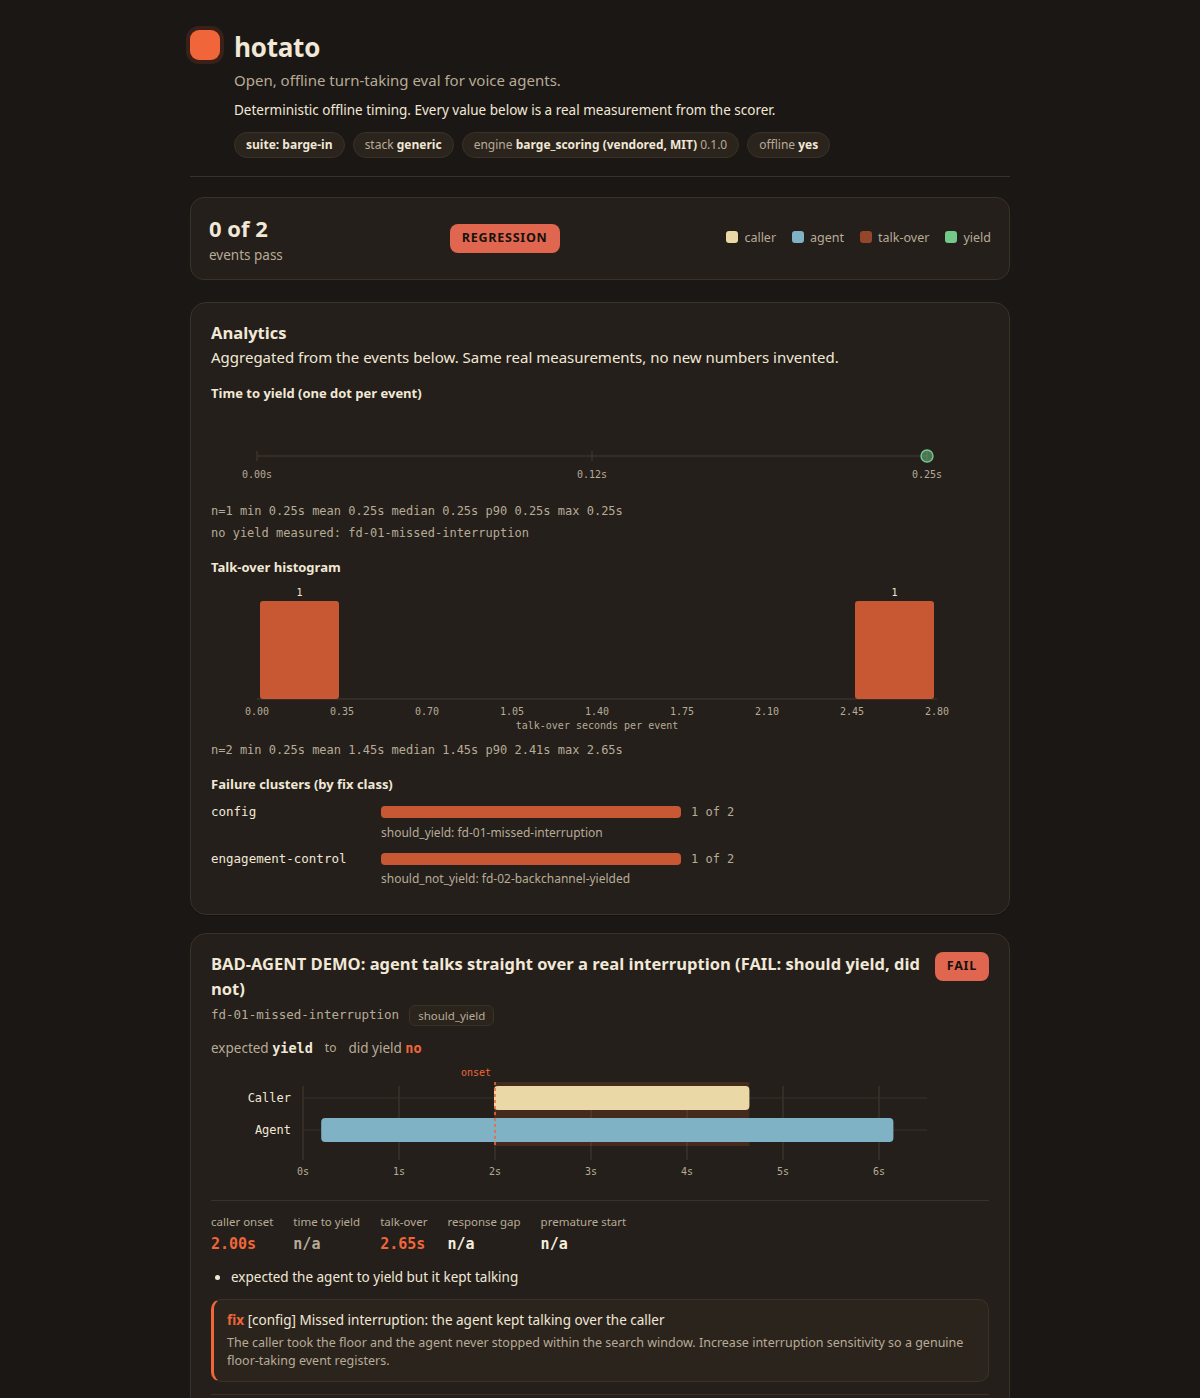
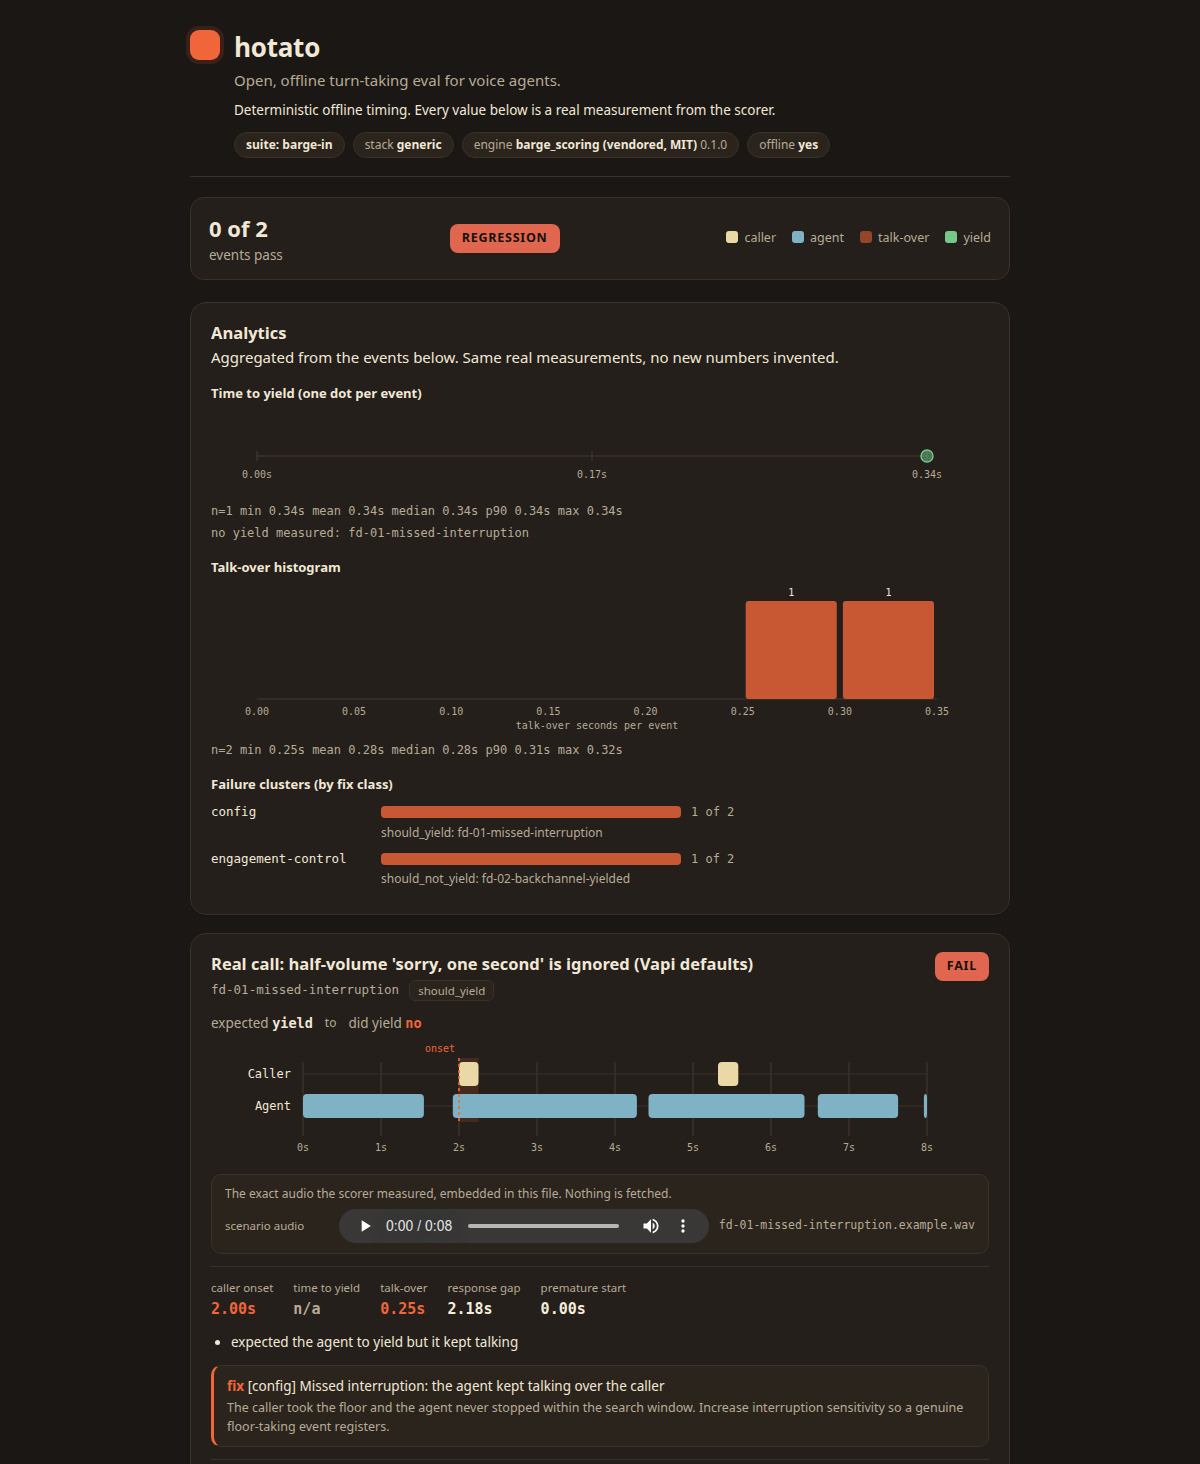
Run the demo battery and hosted report on real recorded calls
The packaged `hotato demo` battery and the site-hosted report artifact both
scored two synthetic shaped-noise renders (fd-01/fd-02). Replace their audio
with two real, operator-recorded, MIT-licensed probe calls against a voice
agent on a provider's default interruption settings:

  fd-01-missed-interruption  <- vapi-default-10-quiet-interrupt  (missed a real
                                interruption: did_yield false, 0.25s talk-over)
  fd-02-backchannel-yielded  <- vapi-default-04-backchannel-halt (false-stopped
                                on a backchannel: yielded 0.34s in)

Both still fail on both funnel axes, fire the funnel pointer, and map to the
same two fix classes, so nothing about the demo's shape changes; the audio is
just real now. `hotato demo` and the hosted report embed the exact scored WAV
under each timeline (embed_audio=True). Determinism holds: two runs of both
are byte-identical.

Scenario metadata carries the real provenance and MIT attestation. Demo header
and copy reworded off "intentionally bad agent" to honest real-call framing
(no vendor-bash: "a provider's default settings"). Regenerated the hosted
docs/assets/hotato-demo-report.{html,png} from the real battery.

test_compare_cli re-curated to the real measurements: on a quiet miss the
caller barely overlaps, so the well-behaved take legitimately shows more
talk-over; the fix is proven by the yield appearing (FAIL -> PASS), and the
[…]

diff --git a/src/hotato/cli.py b/src/hotato/cli.py
@@ -984,17 +984,21 @@ def _cmd_ingest(args) -> int:
     )
 
 
-_DEMO_HEADER = "hotato demo: intentionally bad agent battery"
-_DEMO_NOTE = "demo is intentionally failing; use this to see what Hotato catches."
+_DEMO_HEADER = "hotato demo: real recorded calls a provider's default agent fails"
+_DEMO_NOTE = ("these are two real recorded calls on a provider's default "
+              "settings; run it to see what Hotato catches.")
 
 
 def _cmd_demo(args) -> int:
-    # The packaged INTENTIONALLY FAILING battery: two deliberate bad-agent
-    # renders (fd-01 misses a real interruption, fd-02 yields to a bare
-    # backchannel). It fails on both axes by design, so a first-time user sees
-    # exactly what Hotato catches: the [FAIL] verdicts, both fix classes
-    # (config and engagement-control), and the report timelines. Same scorer,
-    # same envelope, same report as `run` and `doctor`; nothing new is claimed.
+    # The packaged demo battery: two REAL recorded probe calls against a voice
+    # agent on a provider's DEFAULT interruption settings (fd-01 misses a real
+    # interruption, fd-02 false-stops on a backchannel). Both fail, on both
+    # axes, so a first-time user hears exactly what Hotato catches: the [FAIL]
+    # verdicts, both fix classes (config and engagement-control), the report
+    # timelines, and the exact scored audio embedded under each one. Same
+    # scorer, same envelope, same report as `run` and `doctor`; nothing new is
+    # claimed. The clips are operator-recorded and MIT-licensed (see each
+    # scenario's provenance block).
     from importlib import resources
 
     from . import report as _report
@@ -1011,6 +1015,7 @@ def _cmd_demo(args) -> int:
         stack="generic",
         scenarios_dir=scenarios_dir,
         audio_dir=audio_dir,
+        embed_audio=True,
     )
 
     if args.format == "json":
@@ -1595,19 +1600,22 @@ def build_parser() -> argparse.ArgumentParser:
     d.add_argument("--no-fail", action="store_true", help="always exit 0 (do not fail on a regression)")
     d.set_defaults(func=_cmd_doctor)
 
-    # --- demo: the packaged intentionally failing battery -------------------
+    # --- demo: the packaged real-call failing battery -----------------------
     dm = sub.add_parser(
         "demo",
-        help="run the packaged intentionally failing battery and open its report",
+        help="run the packaged battery of two real failing calls and open its report",
         description=(
-            "Run the packaged INTENTIONALLY FAILING two-scenario battery: one "
-            "agent that talks straight over a real interruption, one that yields "
-            "to a bare backchannel. Both fail by design, so you see what Hotato "
-            "catches in under a minute: the [FAIL] verdicts, the fix classes "
-            "(config and engagement-control), and the per-event report timelines. "
-            "Renders the self-contained HTML report and opens it best-effort. "
-            "Exits 0 by default because the failures are intentional; pass --fail "
-            "to get the real regression exit code. Offline, zero extra files."
+            "Run the packaged two-scenario battery of REAL recorded calls "
+            "against a voice agent on a provider's DEFAULT interruption "
+            "settings: one where the agent talks straight over a real "
+            "interruption, one where it false-stops on a backchannel. Both "
+            "fail, so you hear what Hotato catches in under a minute: the "
+            "[FAIL] verdicts, the fix classes (config and engagement-control), "
+            "the per-event report timelines, and the exact scored audio "
+            "embedded under each one. Renders the self-contained HTML report "
+            "and opens it best-effort. Exits 0 by default so a demo never "
+            "breaks a script; pass --fail to get the real regression exit "
+            "code. Offline, zero extra files."
         ),
         epilog=(
             _exit_codes_epilog("demo") + "\n\n" + _LABEL_NOTE + "\n\n"

diff --git a/tests/test_compare_cli.py b/tests/test_compare_cli.py
@@ -22,9 +22,13 @@ def _bundled(sid):
     )
 
 
-# The packaged demo pair: fd-01 is the deliberately bad take (caller onset
-# 2.00, the agent never yields); 01-hard-interruption is the well-behaved
-# take of the same kind of moment (caller onset 2.40, yields in ~0.5 s).
+# The packaged demo pair: fd-01 is a REAL recorded call where the agent never
+# yields to a quiet interruption (caller onset 2.00, did_yield false, ~0.25 s
+# talk-over); 01-hard-interruption is the well-behaved take of the same kind of
+# moment (caller onset 2.40, yields in ~0.5 s). The fix here is the yield
+# appearing at all (FAIL -> PASS), not a talk-over reduction: on a quiet miss
+# the caller barely overlaps, so the louder well-behaved take actually shows
+# MORE talk-over before it correctly yields. Both are real measurements.
 BAD = str(resources.files("hotato").joinpath(
     "data", "demo", "failing", "audio",
     "fd-01-missed-interruption.example.wav"))
@@ -64,9 +68,12 @@ def test_json_shape_is_stable(capsys):
     assert d["did_yield"] == [False, True]
     assert d["seconds_to_yield_sec"][0] is None
     assert d["seconds_to_yield_sec"][1] == pytest.approx(0.5, abs=0.05)
+    # The delta field is always internally consistent with the two measured
+    # talk-over values. Its SIGN is not asserted: this fix is proven by the
+    # yield appearing (did_yield false -> true, FAIL -> PASS), and on a quiet
+    # miss the well-behaved take legitimately overlaps a little more.
     assert d["talk_over_delta_sec"] == pytest.approx(
         d["talk_over_sec"][1] - d["talk_over_sec"][0], abs=0.001)
-    assert d["talk_over_delta_sec"] < 0
 
 
 # --- the rest of the taxonomy, from real measurements ------------------------
@@ -93,10 +100,12 @@ def test_unchanged_when_both_fail_identically(capsys):
 
 
 def test_improved_when_both_fail_but_talk_over_drops(capsys):
-    # The after take still fails (an impossible 0.05 s yield bound) but its
-    # talk-over is far lower than the before take's: improved, not fixed.
-    assert cli.main(["compare", "--before", BAD, "--after", GOOD,
-                     "--before-onset", "2.00", "--after-onset", "2.40",
+    # An impossible 0.05 s yield bound makes both takes FAIL. The before is the
+    # well-behaved take (yields at ~0.5 s, ~0.5 s talk-over); the after is the
+    # real quiet miss (never yields, ~0.25 s talk-over). Talk-over dropped, so
+    # among two fails this reads as improved, not worse.
+    assert cli.main(["compare", "--before", GOOD, "--after", BAD,
+                     "--before-onset", "2.40", "--after-onset", "2.00",
                      "--expect", "yield",
                      "--max-time-to-yield", "0.05"]) == 0
     out = capsys.readouterr().out
@@ -105,10 +114,12 @@ def test_improved_when_both_fail_but_talk_over_drops(capsys):
 
 
 def test_worse_exits_1_only_with_fail_on_worse(capsys):
-    args = ["compare", "--before", GOOD, "--after", BAD,
-            "--before-onset", "2.40", "--after-onset", "2.00",
+    # Same impossible bound, reversed: the after take (the well-behaved one)
+    # overlaps MORE than the before quiet miss, so among two fails talk-over
+    # moved the wrong way: worse.
+    args = ["compare", "--before", BAD, "--after", GOOD,
+            "--before-onset", "2.00", "--after-onset", "2.40",
             "--expect", "yield", "--max-time-to-yield", "0.05"]
-    # Both fail; the after take lost the yield and gained talk-over: worse.
     assert cli.main(args) == 0
     assert "result: worse" in capsys.readouterr().out
     assert cli.main([*args, "--fail-on-worse"]) == 1

diff --git a/tests/test_readme_assets.py b/tests/test_readme_assets.py
@@ -1,9 +1,9 @@
 """The committed README demo-report assets exist and are plausible.
 
 Regenerate with: ``python3 scripts/render_readme_assets.py`` (renders the
-packaged intentionally failing demo battery to docs/assets/ and screenshots
-it, verifying in-page that the failing summary, a timeline, and a fix card
-are inside the crop).
+packaged demo battery of two real failing calls, with embedded audio, to
+docs/assets/ and screenshots it, verifying in-page that the failing summary, a
+timeline, and a fix card are inside the crop).
 """
 
 import os

diff --git a/scripts/render_readme_assets.py b/scripts/render_readme_assets.py
@@ -4,7 +4,8 @@
 Writes two files under docs/assets/:
 
 - ``hotato-demo-report.html``: the self-contained HTML report for the packaged
-  INTENTIONALLY FAILING demo battery (the same thing ``hotato demo`` renders).
+  demo battery of two REAL recorded failing calls, with the exact scored audio
+  embedded under each timeline (the same thing ``hotato demo`` renders).
 - ``hotato-demo-report.png``: a 1200 px wide screenshot of that page, cropped
   from the top of the page to the first fix card, so it shows the failing
   summary, at least one per-event timeline, and at least one fix card.
@@ -92,6 +93,7 @@ def build_html() -> None:
         stack="generic",
         scenarios_dir=str(demo_root.joinpath("scenarios")),
         audio_dir=str(demo_root.joinpath("audio")),
+        embed_audio=True,
     )
     if env["summary"]["failed"] != env["summary"]["events"]:
         raise SystemExit(

diff --git a/tests/test_demo_cli.py b/tests/test_demo_cli.py
@@ -48,14 +48,14 @@ def test_demo_exits_0_and_prints_failures_and_both_fix_classes(tmp_path, capsys)
     # Failures are intentional, so the default exit never breaks a script.
     assert code == 0
     text = capsys.readouterr().out
-    assert "hotato demo: intentionally bad agent battery" in text
+    assert "hotato demo: real recorded calls a provider's default agent fails" in text
     assert "0/2 events pass  (failed=2)" in text
     assert "[FAIL]" in text
     assert "fd-01-missed-interruption" in text
     assert "fd-02-backchannel-yielded" in text
     assert "fix[config]" in text
     assert "fix[engagement-control]" in text
-    assert "intentionally" in text
+    assert "real recorded calls" in text
     assert f"report: {out}" in text
     html = out.read_text(encoding="utf-8")
     assert "fd-01-missed-interruption" in html